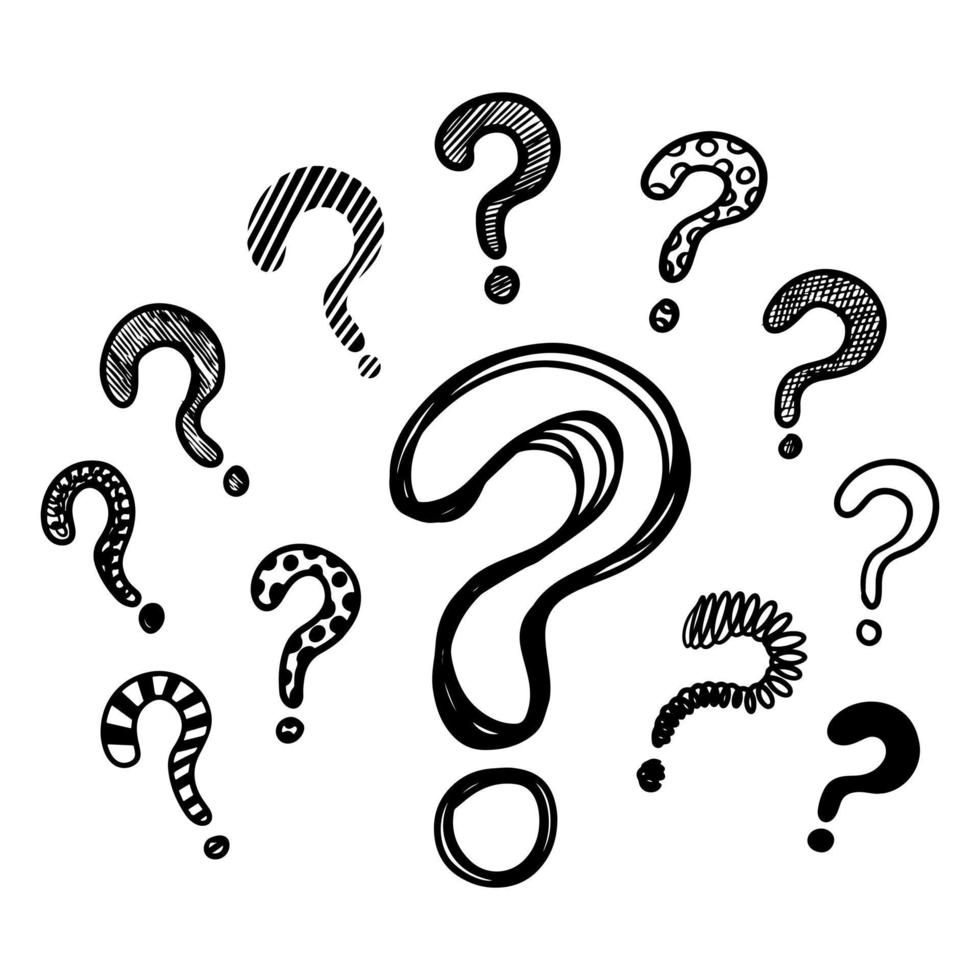
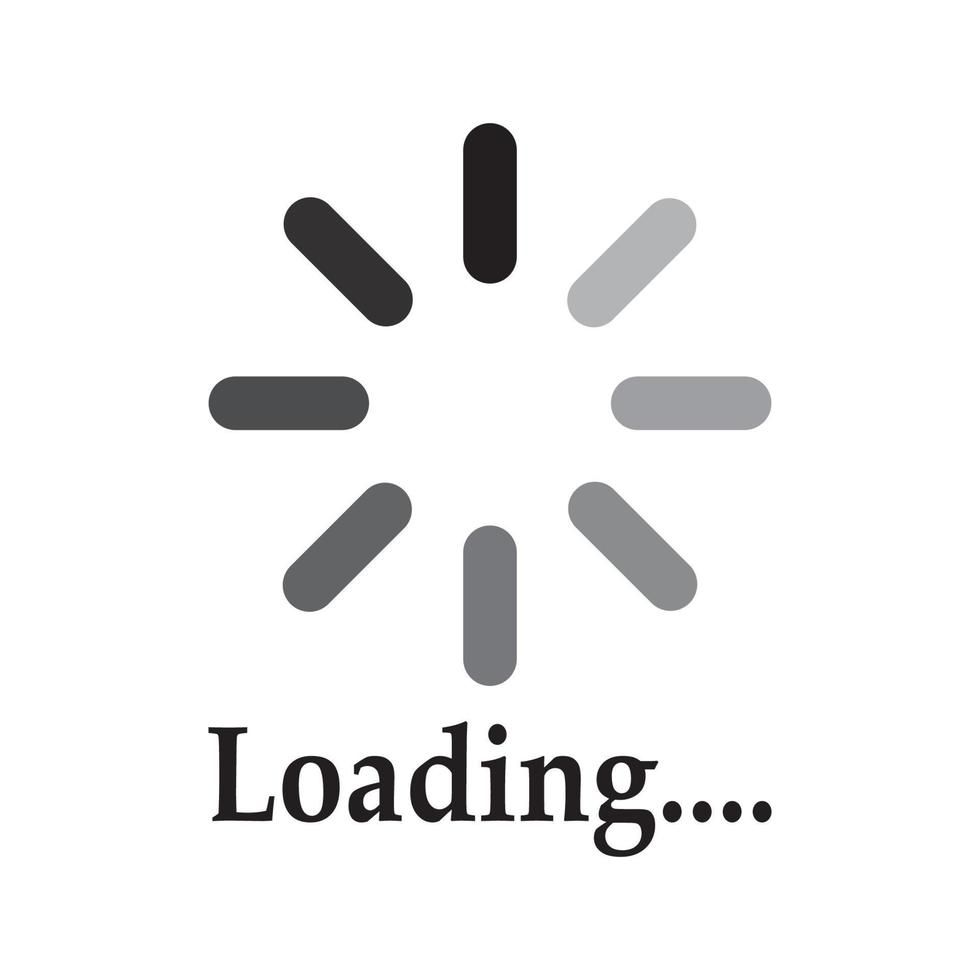
3ème edit : -changer  la couleur et la position des titres , -(projet) ajout projet à venir , -(contact) ajouter sujet et required , -(A propos de moi) edit et ajout.

diff --git a/site/css/style.css b/site/css/style.css
@@ -284,6 +284,6 @@ a {
 }
 
 .caractere{
-  color: #B3430F;
+  color: #BD7E2B;
   font-family:  'losevka Charon', 'Arial Narrow', Arial, sans-serif;
 }
